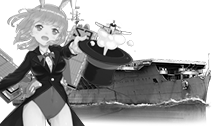
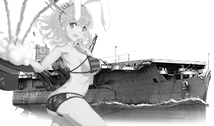
fix November's Enterprise put in Independence problem && slight change

diff --git a/index.php b/index.php
@@ -432,8 +432,8 @@
                             <span data-am-modal-close class="am-close">&times;</span>
                             </div>
                             <ul class="am-list am-list-static">
-                                <li><i class="am-icon-user am-icon-fw"></i>【<a href="http://blog.sina.com.cn/u/3027377595">bluekiller</a>】 - 碧藍航線立繪提供</li>
-                                <li><i class="am-icon-user am-icon-fw"></i>【<a href="https://home.gamer.com.tw/homeindex.php?owner=kakushi03004">紙龜萌萌雪</a>】 - 碧藍航線立繪提供</li>
+                                <li><i class="am-icon-user am-icon-fw"></i>【<a href="http://blog.sina.com.cn/u/3027377595">bluekiller</a>】 - 新版碧藍航線立繪提供</li>
+                                <li><i class="am-icon-user am-icon-fw"></i>【<a href="https://home.gamer.com.tw/homeindex.php?owner=kakushi03004">紙龜萌萌雪</a>】 - 碧藍航線(v1.3)立繪提供</li>
                                 <li><i class="am-icon-user am-icon-fw"></i>【<a href="https://home.gamer.com.tw/homeindex.php?owner=kkkkking12">阿爽</a>】 - 鋼鐵少女立繪提供</li>
                                 <li><i class="am-icon-user am-icon-fw"></i>【<a href="https://home.gamer.com.tw/homeindex.php?owner=ae033179">Adam Richter</a>】 - 鋼鐵少女立繪提供</li>
                                 <li><i class="am-icon-user am-icon-fw"></i>【<a href="https://home.gamer.com.tw/homeindex.php?owner=roderichlind">Blomkavist</a>】 - 新船資訊提供</li>
